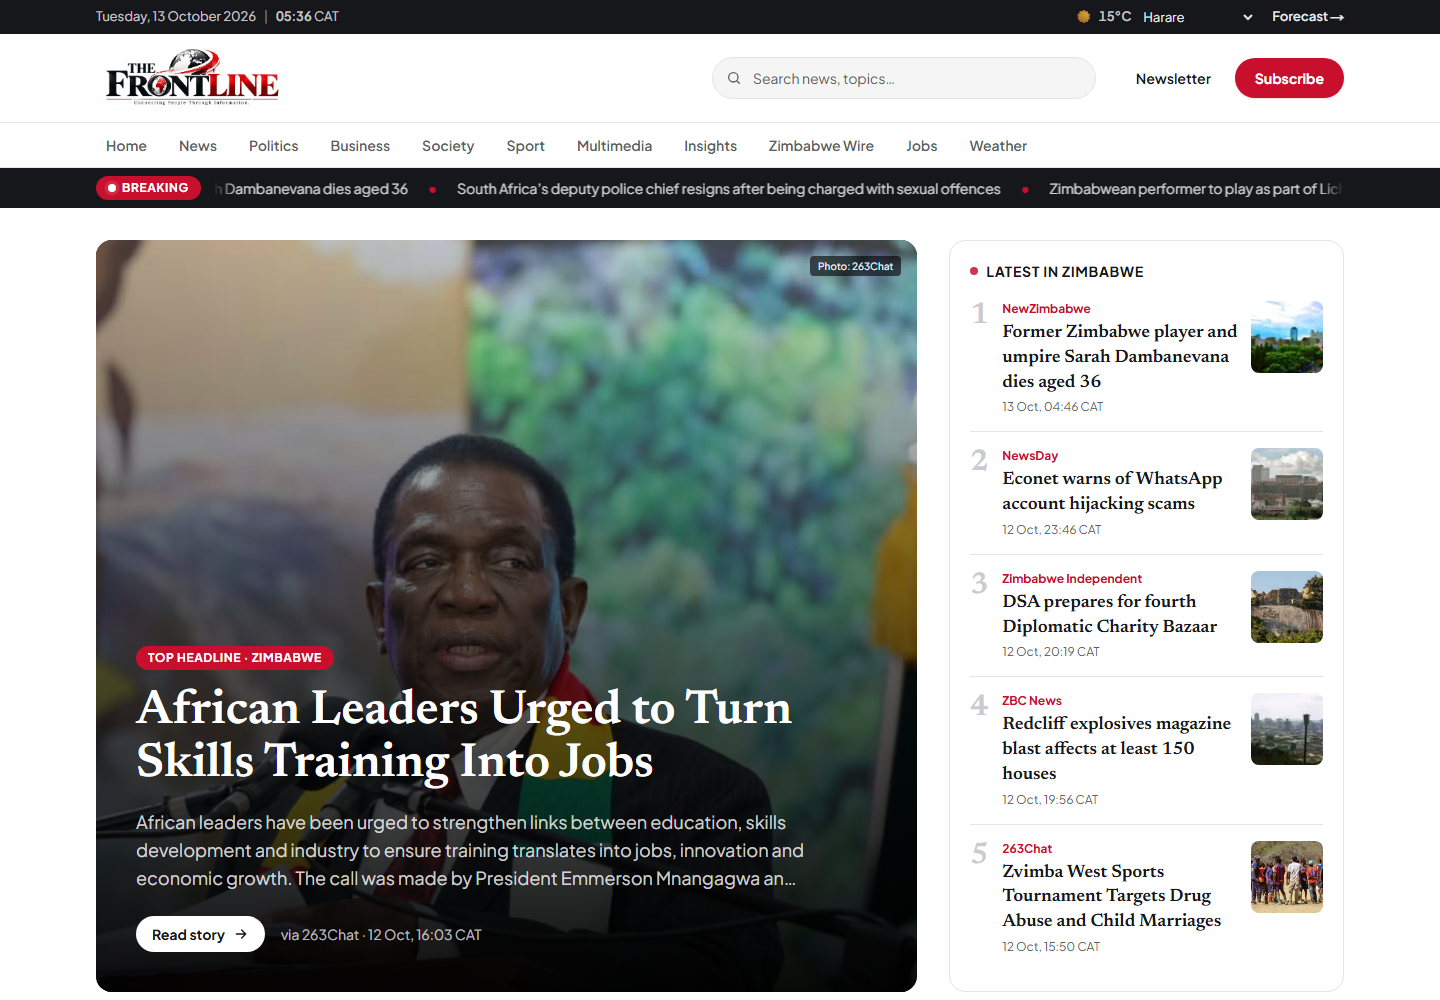
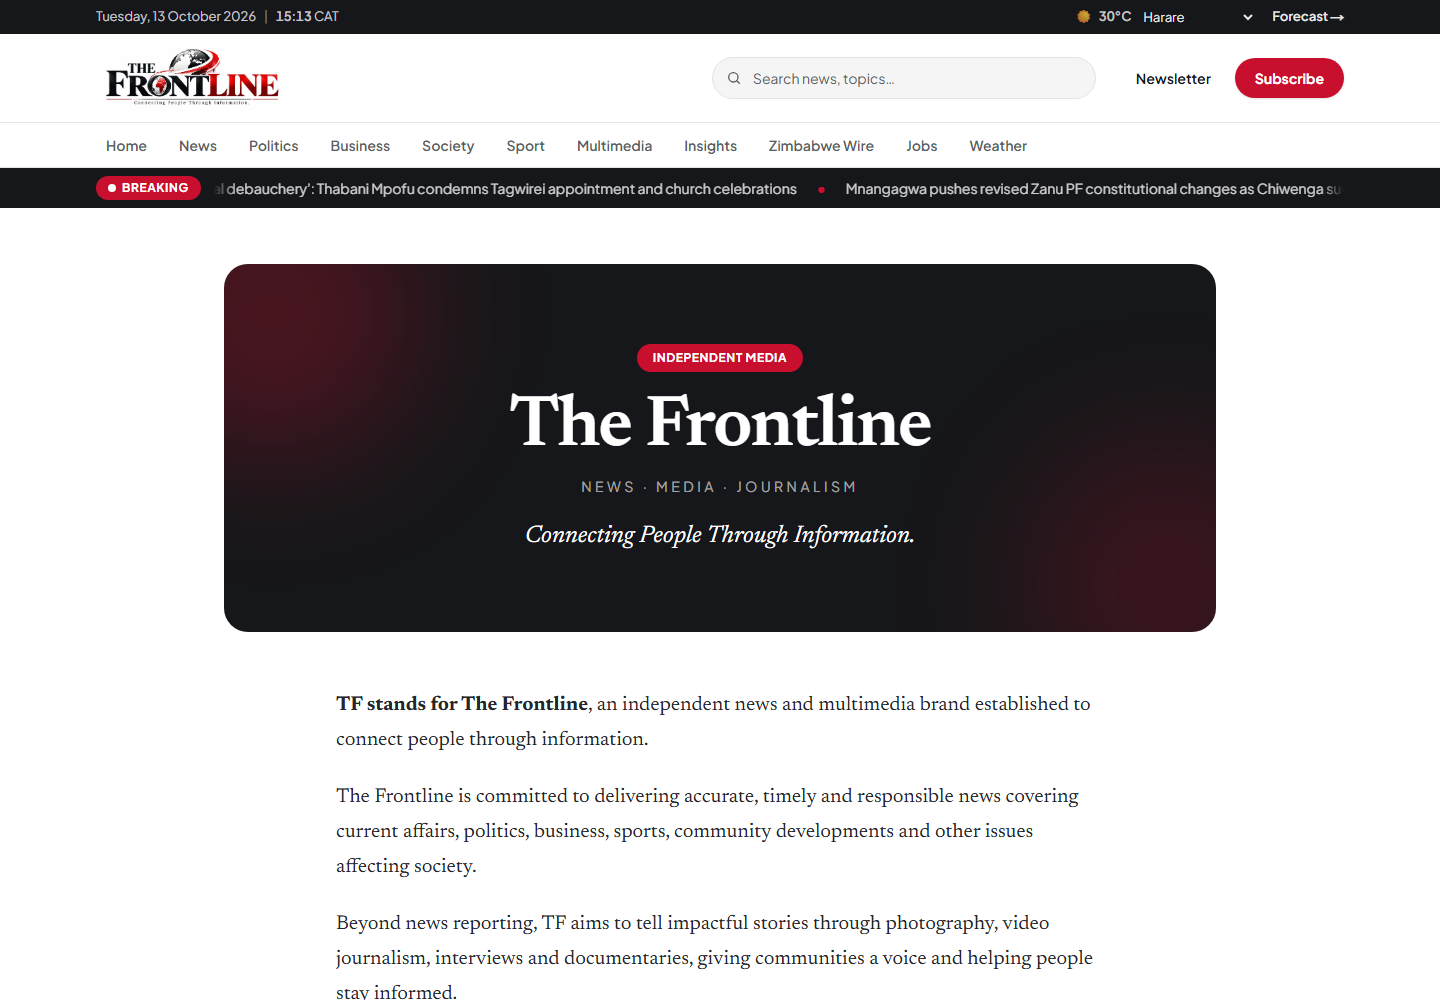
Feature Gata Gadgets, new Frontline cover, $200 minimum, LinkedIn link

diff --git a/projects.html b/projects.html
@@ -48,21 +48,21 @@
 
     <section class="tile stats">
       <div class="stat"><b><span data-count="15">15</span>+</b><span>projects built</span></div>
-      <div class="stat"><b data-count="12">12</b><span>live websites</span></div>
+      <div class="stat"><b data-count="13">13</b><span>live websites</span></div>
       <div class="stat"><b data-count="2">2</b><span>app stores (iOS &amp; Android)</span></div>
     </section>
 
-    <a class="tile proj-sm wide" href="https://wellstardrilling.com" target="_blank" rel="noopener">
+    <a class="tile proj-sm wide" href="https://gatagadgets.store" target="_blank" rel="noopener">
       <div class="shot">
-        <img src="images/wellstar.png" alt="Wellstar Drilling website">
-        <div class="kind">Business + Admin · Next.js · Drizzle</div>
-        <div class="name"><span>Wellstar Drilling – Borehole Specialists</span><svg viewBox="0 0 24 24" fill="none" stroke="currentColor" stroke-width="2.4"><path d="M7 17 17 7M8 7h9v9"/></svg></div>
+        <img src="images/gata.png" alt="Gata Gadgets receipts and inventory system" style="object-position: center">
+        <div class="kind">Live system · POS &amp; Inventory · Node.js</div>
+        <div class="name"><span>Gata Gadgets – Receipts &amp; Inventory</span><svg viewBox="0 0 24 24" fill="none" stroke="currentColor" stroke-width="2.4"><path d="M7 17 17 7M8 7h9v9"/></svg></div>
       </div>
     </a>
 
     <a class="tile proj-sm wide" href="https://the-frontline.vercel.app" target="_blank" rel="noopener">
       <div class="shot">
-        <img src="images/frontline.png" alt="The Frontline news website">
+        <img src="images/frontline.png" alt="The Frontline news website" style="object-position: center 35%">
         <div class="kind">News &amp; Media · Next.js 16</div>
         <div class="name"><span>The Frontline – News Website</span><svg viewBox="0 0 24 24" fill="none" stroke="currentColor" stroke-width="2.4"><path d="M7 17 17 7M8 7h9v9"/></svg></div>
       </div>
@@ -102,48 +102,48 @@
 
     <div class="section-label"><span class="label">Client websites</span></div>
 
-    <a class="tile work third" href="https://absolute-energy-website.vercel.app" target="_blank" rel="noopener">
+    <a class="tile work" href="https://absolute-energy-website.vercel.app" target="_blank" rel="noopener">
       <div class="thumb"><img src="images/absolute.png" alt="Absolute Energy website" loading="lazy"></div>
       <div class="meta"><span class="kind">Energy</span><h3>Absolute Energy<svg viewBox="0 0 24 24" fill="none" stroke="currentColor" stroke-width="2.4"><path d="M7 17 17 7M8 7h9v9"/></svg></h3><p>Company website for an energy provider.</p><span class="tags">Next.js · Tailwind</span></div>
     </a>
-    <a class="tile work third" href="https://daystar-energy.vercel.app" target="_blank" rel="noopener">
+    <a class="tile work" href="https://daystar-energy.vercel.app" target="_blank" rel="noopener">
       <div class="thumb"><img src="images/daystar.png" alt="Daystar Energy website" loading="lazy"></div>
       <div class="meta"><span class="kind">Clean energy</span><h3>Daystar Energy<svg viewBox="0 0 24 24" fill="none" stroke="currentColor" stroke-width="2.4"><path d="M7 17 17 7M8 7h9v9"/></svg></h3><p>Website for a clean energy company.</p><span class="tags">Next.js · Tailwind</span></div>
     </a>
-    <a class="tile work third" href="https://hatchgrow-poultry.vercel.app" target="_blank" rel="noopener">
+    <a class="tile work" href="https://hatchgrow-poultry.vercel.app" target="_blank" rel="noopener">
       <div class="thumb"><img src="images/hatchgrow.png" alt="HatchGrow Poultry website" loading="lazy"></div>
       <div class="meta"><span class="kind">Agriculture</span><h3>HatchGrow Poultry<svg viewBox="0 0 24 24" fill="none" stroke="currentColor" stroke-width="2.4"><path d="M7 17 17 7M8 7h9v9"/></svg></h3><p>Custom egg hatching and day-old chicks in Chiredzi.</p><span class="tags">Next.js</span></div>
     </a>
-    <a class="tile work third" href="https://high-mount-college.vercel.app" target="_blank" rel="noopener">
+    <a class="tile work" href="https://high-mount-college.vercel.app" target="_blank" rel="noopener">
       <div class="thumb"><img src="images/highmount.png" alt="High Mount College website" loading="lazy"></div>
       <div class="meta"><span class="kind">Education</span><h3>High Mount College<svg viewBox="0 0 24 24" fill="none" stroke="currentColor" stroke-width="2.4"><path d="M7 17 17 7M8 7h9v9"/></svg></h3><p>ZIMSEC, Cambridge, ACCA and short courses in Harare.</p><span class="tags">HTML · CSS · JS</span></div>
     </a>
-    <a class="tile work third" href="https://halo-mirrors.vercel.app" target="_blank" rel="noopener">
+    <a class="tile work" href="https://halo-mirrors.vercel.app" target="_blank" rel="noopener">
       <div class="thumb"><img src="images/halo.png" alt="Halo Mirrors website" loading="lazy"></div>
       <div class="meta"><span class="kind">Retail</span><h3>Halo Mirrors<svg viewBox="0 0 24 24" fill="none" stroke="currentColor" stroke-width="2.4"><path d="M7 17 17 7M8 7h9v9"/></svg></h3><p>Mirrors cut and installed in Harare, with WhatsApp quotes.</p><span class="tags">HTML · CSS · JS</span></div>
     </a>
-    <a class="tile work third" href="https://creative-collective-co.vercel.app" target="_blank" rel="noopener">
+    <a class="tile work" href="https://creative-collective-co.vercel.app" target="_blank" rel="noopener">
       <div class="thumb"><img src="images/creative.png" alt="Creative Collective Co. website" loading="lazy"></div>
       <div class="meta"><span class="kind">Agency</span><h3>Creative Collective Co.<svg viewBox="0 0 24 24" fill="none" stroke="currentColor" stroke-width="2.4"><path d="M7 17 17 7M8 7h9v9"/></svg></h3><p>New York creative and digital marketing studio.</p><span class="tags">HTML · CSS · JS</span></div>
     </a>
-
-    <div class="section-label"><span class="label">Systems, apps &amp; more</span></div>
-
-    <div class="tile work">
-      <div class="thumb ph ph-c"><span class="mono">SMS</span></div>
-      <div class="meta"><span class="kind">School SaaS</span><h3>Melbourne Academy SMS<span class="private">Private</span></h3><p>Students, attendance, grades and fees for a school in Chiredzi.</p><span class="tags">Next.js · Prisma</span></div>
-    </div>
-    <div class="tile work">
-      <div class="thumb ph ph-b"><span class="mono">POS</span></div>
-      <div class="meta"><span class="kind">POS &amp; Inventory</span><h3>Gata Gadgets<span class="private">Private</span></h3><p>Receipts, inventory and sales, stock and profit reports.</p><span class="tags">Node.js · Express · SQLite</span></div>
-    </div>
-    <div class="tile work">
-      <div class="thumb ph ph-d"><span class="mono">$↔</span></div>
-      <div class="meta"><span class="kind">Fintech bot</span><h3>WhatsApp Remit Bot<span class="private">In dev</span></h3><p>WhatsApp chatbot for PayPal and EcoCash exchange quotes.</p><span class="tags">Next.js · Prisma</span></div>
-    </div>
+    <a class="tile work" href="https://wellstardrilling.com" target="_blank" rel="noopener">
+      <div class="thumb"><img src="images/wellstar.png" alt="Wellstar Drilling website" loading="lazy"></div>
+      <div class="meta"><span class="kind">Drilling services</span><h3>Wellstar Drilling<svg viewBox="0 0 24 24" fill="none" stroke="currentColor" stroke-width="2.4"><path d="M7 17 17 7M8 7h9v9"/></svg></h3><p>Borehole drilling company with service pages and a project gallery.</p><span class="tags">Next.js · Drizzle</span></div>
+    </a>
     <div class="tile work">
       <div class="thumb ph ph-a"><span class="mono">FS</span></div>
       <div class="meta"><span class="kind">Printing &amp; Branding</span><h3>Flux Slym</h3><p>Printing and branding company with two branches in Harare.</p><span class="tags">HTML · CSS · JS</span></div>
+    </div>
+
+    <div class="section-label"><span class="label">Systems &amp; apps</span></div>
+
+    <div class="tile work half">
+      <div class="thumb ph ph-c"><span class="mono">SMS</span></div>
+      <div class="meta"><span class="kind">School SaaS</span><h3>Melbourne Academy SMS<span class="private">Private</span></h3><p>Students, attendance, grades and fees for a school in Chiredzi.</p><span class="tags">Next.js · Prisma</span></div>
+    </div>
+    <div class="tile work half">
+      <div class="thumb ph ph-d"><span class="mono">$↔</span></div>
+      <div class="meta"><span class="kind">Fintech bot</span><h3>WhatsApp Remit Bot<span class="private">In dev</span></h3><p>WhatsApp chatbot for PayPal and EcoCash exchange quotes.</p><span class="tags">Next.js · Prisma</span></div>
     </div>
 
     <section class="tile cta">

diff --git a/index.html b/index.html
@@ -39,28 +39,27 @@
       <div class="status"><span class="dot"></span> Available for freelance projects &amp; full-time roles</div>
     </section>
 
-    <a class="tile proj-sm" href="https://wellstardrilling.com" target="_blank" rel="noopener">
+    <a class="tile proj-sm" href="https://gatagadgets.store" target="_blank" rel="noopener">
       <div class="shot">
-        <img src="images/wellstar.png" alt="Wellstar Drilling website">
-        <div class="kind">Business + Admin</div>
-        <div class="name"><span>Wellstar Drilling</span><svg viewBox="0 0 24 24" fill="none" stroke="currentColor" stroke-width="2.4"><path d="M7 17 17 7M8 7h9v9"/></svg></div>
+        <img src="images/gata.png" alt="Gata Gadgets receipts and inventory system" style="object-position: center">
+        <div class="kind">POS &amp; Inventory</div>
+        <div class="name"><span>Gata Gadgets</span><svg viewBox="0 0 24 24" fill="none" stroke="currentColor" stroke-width="2.4"><path d="M7 17 17 7M8 7h9v9"/></svg></div>
       </div>
     </a>
 
     <a class="tile proj-sm" href="https://the-frontline.vercel.app" target="_blank" rel="noopener">
       <div class="shot">
-        <img src="images/frontline.png" alt="The Frontline news website">
+        <img src="images/frontline.png" alt="The Frontline news website" style="object-position: center 35%">
         <div class="kind">News &amp; Media</div>
         <div class="name"><span>The Frontline</span><svg viewBox="0 0 24 24" fill="none" stroke="currentColor" stroke-width="2.4"><path d="M7 17 17 7M8 7h9v9"/></svg></div>
       </div>
     </a>
 
-    <!-- EDIT: add your LinkedIn profile URL -->
     <nav class="tile socials" aria-label="Contact links">
       <a class="icon-btn" href="https://github.com/JosephDhliwayo" target="_blank" rel="noopener" aria-label="GitHub">
         <svg viewBox="0 0 24 24" fill="none" stroke="currentColor" stroke-width="1.8" stroke-linecap="round" stroke-linejoin="round"><path d="M9 19c-4.3 1.4-4.3-2.5-6-3m12 5v-3.5c0-1 .1-1.4-.5-2 2.8-.3 5.5-1.4 5.5-6a4.6 4.6 0 0 0-1.3-3.2 4.2 4.2 0 0 0-.1-3.2s-1.1-.3-3.5 1.3a12.3 12.3 0 0 0-6.2 0C6.5 2.8 5.4 3.1 5.4 3.1a4.2 4.2 0 0 0-.1 3.2A4.6 4.6 0 0 0 4 9.5c0 4.6 2.7 5.7 5.5 6-.6.6-.6 1.2-.5 2V21"/></svg>
       </a>
-      <a class="icon-btn c-teal" href="https://www.linkedin.com/" target="_blank" rel="noopener" aria-label="LinkedIn">
+      <a class="icon-btn c-teal" href="https://www.linkedin.com/in/joseph-dhliwayo-12b90b17b" target="_blank" rel="noopener" aria-label="LinkedIn">
         <svg viewBox="0 0 24 24" fill="none" stroke="currentColor" stroke-width="1.8" stroke-linecap="round" stroke-linejoin="round"><path d="M16 8a6 6 0 0 1 6 6v7h-4v-7a2 2 0 0 0-4 0v7h-4v-7a6 6 0 0 1 6-6zM2 9h4v12H2z"/><circle cx="4" cy="4" r="2"/></svg>
       </a>
       <a class="icon-btn c-green" href="https://wa.me/12035034159" target="_blank" rel="noopener" aria-label="WhatsApp">
@@ -99,11 +98,10 @@
       </div>
     </a>
 
-    <!-- EDIT: set your real rate here and on the pricing page -->
     <a class="tile rates" href="/pricing">
       <div class="label" style="color:var(--fg)">Rates</div>
       <div class="price">$<span data-count="20">20</span><small>/hr</small></div>
-      <p>Websites from $150. Flexible hourly sprints.</p>
+      <p>Websites from $200. Flexible hourly sprints.</p>
       <div class="row-end"><span class="arrow"><svg viewBox="0 0 24 24" fill="none" stroke="currentColor" stroke-width="2.4"><path d="M7 17 17 7M8 7h9v9"/></svg></span></div>
     </a>
 

diff --git a/pricing.html b/pricing.html
@@ -37,7 +37,6 @@
       <p>Pick a package or book hours as you need them. Every project starts with a free call and a fixed written quote.</p>
     </section>
 
-    <!-- EDIT: all prices on this page are examples. Set your own. -->
     <section class="tile hourly">
       <div class="label" style="color:var(--fg)">Hourly rate</div>
       <div class="price">$<span data-count="20">20</span><small>/hr</small></div>
@@ -61,7 +60,7 @@
 
     <section class="tile plan">
       <span class="from">From</span>
-      <div class="amount">$<span data-count="150">150</span></div>
+      <div class="amount">$<span data-count="200">200</span></div>
       <h2>Landing page</h2>
       <p>One page that tells people what you do and how to reach you.</p>
       <ul>

diff --git a/contact.html b/contact.html
@@ -95,8 +95,7 @@
       <p>Hamden, Connecticut · Eastern Time</p>
       <div class="actions" style="display:flex;gap:10px;flex-wrap:wrap;margin-top:auto;padding-top:12px">
         <a class="pill" href="https://github.com/JosephDhliwayo" target="_blank" rel="noopener">GitHub</a>
-        <!-- EDIT: your LinkedIn profile URL -->
-        <a class="pill" href="https://www.linkedin.com/" target="_blank" rel="noopener">LinkedIn</a>
+        <a class="pill" href="https://www.linkedin.com/in/joseph-dhliwayo-12b90b17b" target="_blank" rel="noopener">LinkedIn</a>
         <a class="pill" href="cv.pdf" download>Download CV</a>
       </div>
     </section>
